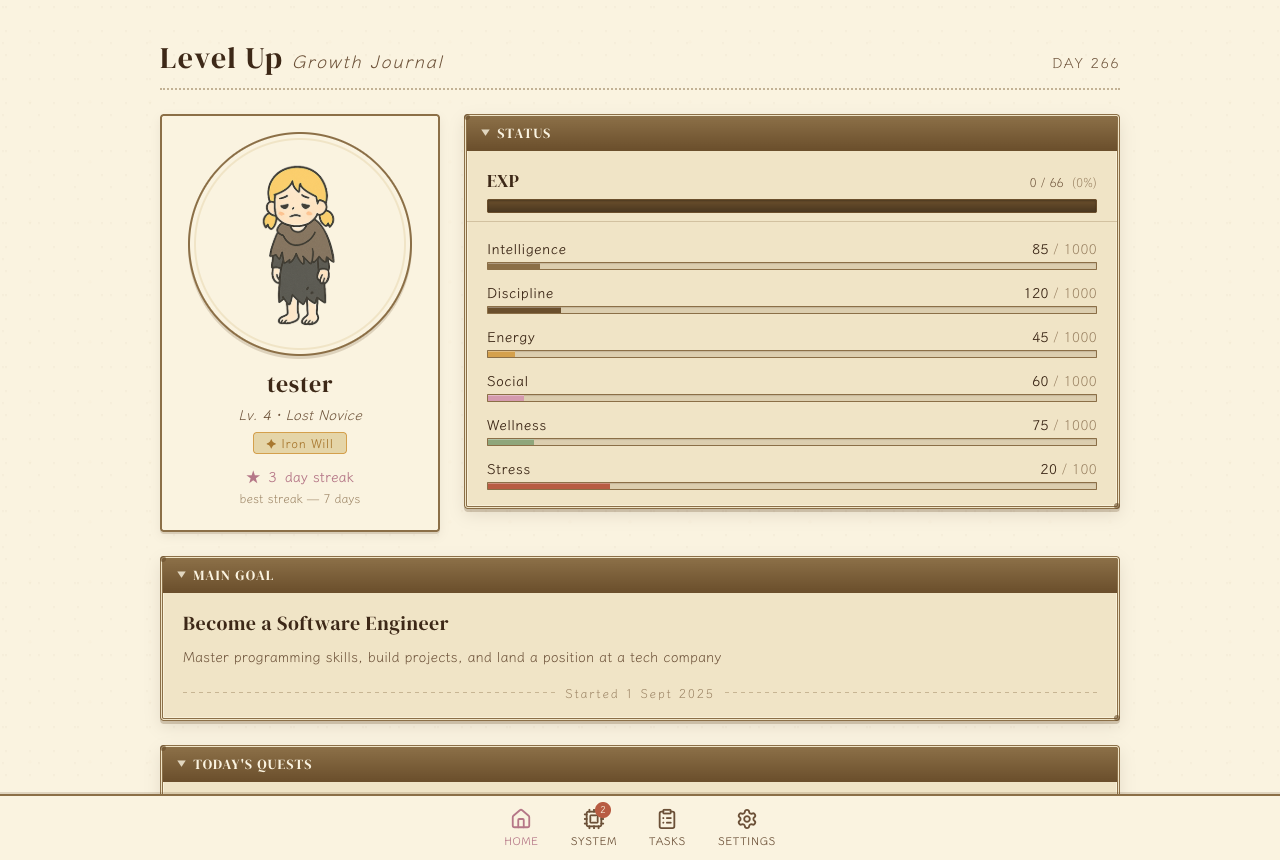
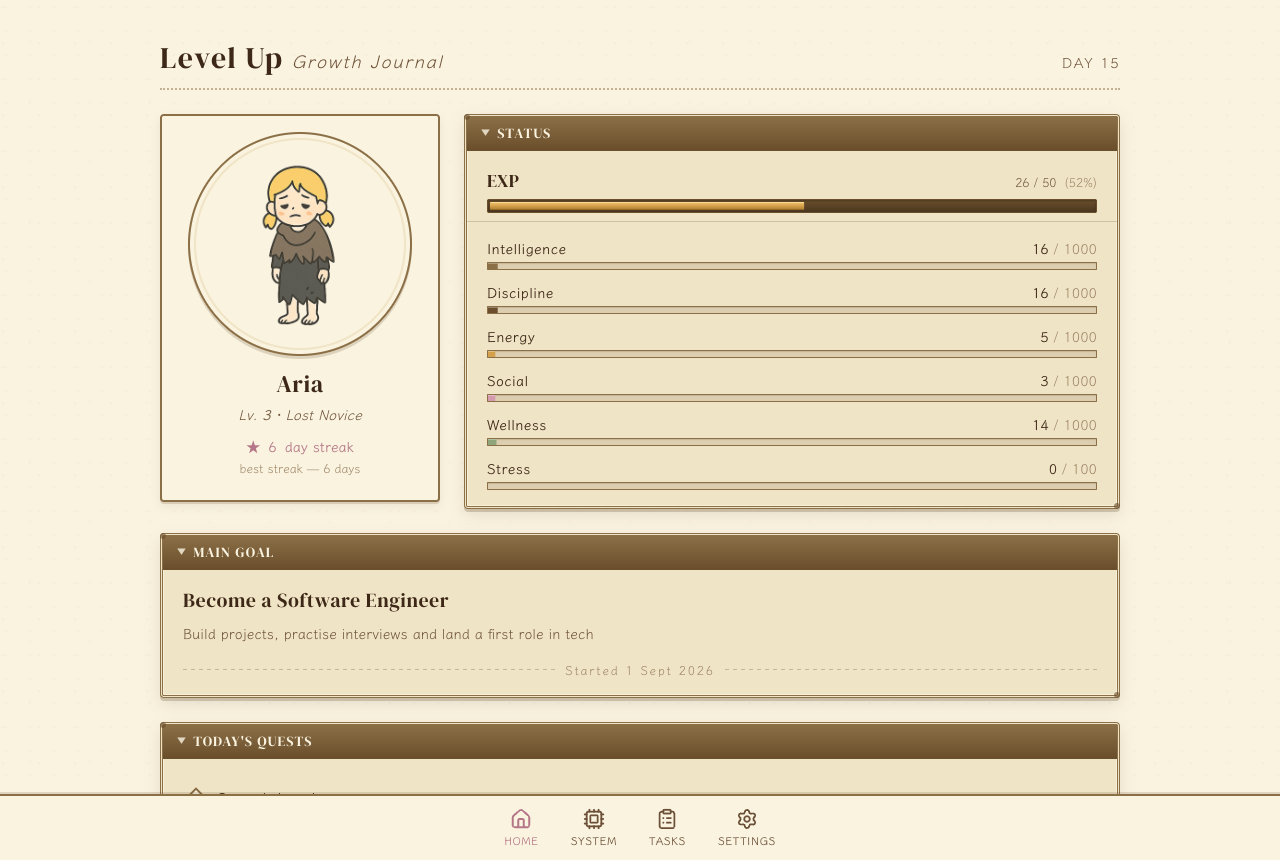
docs: retake README screenshots with one consistent demo account (#24)
- Replace all six images with captures from a single demo account, so level, EXP, streak, diary and the morning brief agree
- Note that the System screenshot uses a demo account

diff --git a/README.md b/README.md
@@ -59,7 +59,7 @@ and an automated test suite.
 
 ![System page](docs/images/system_desktop.png)
 
-*Morning Brief shows AI-generated missions. The chat input lets the host describe their current situation to receive tailored quests.*
+*Morning Brief lists the day's missions, which the configured AI provider generates (this screenshot uses a demo account). The chat input lets the host describe their current situation to receive tailored quests.*
 
 ---
 
